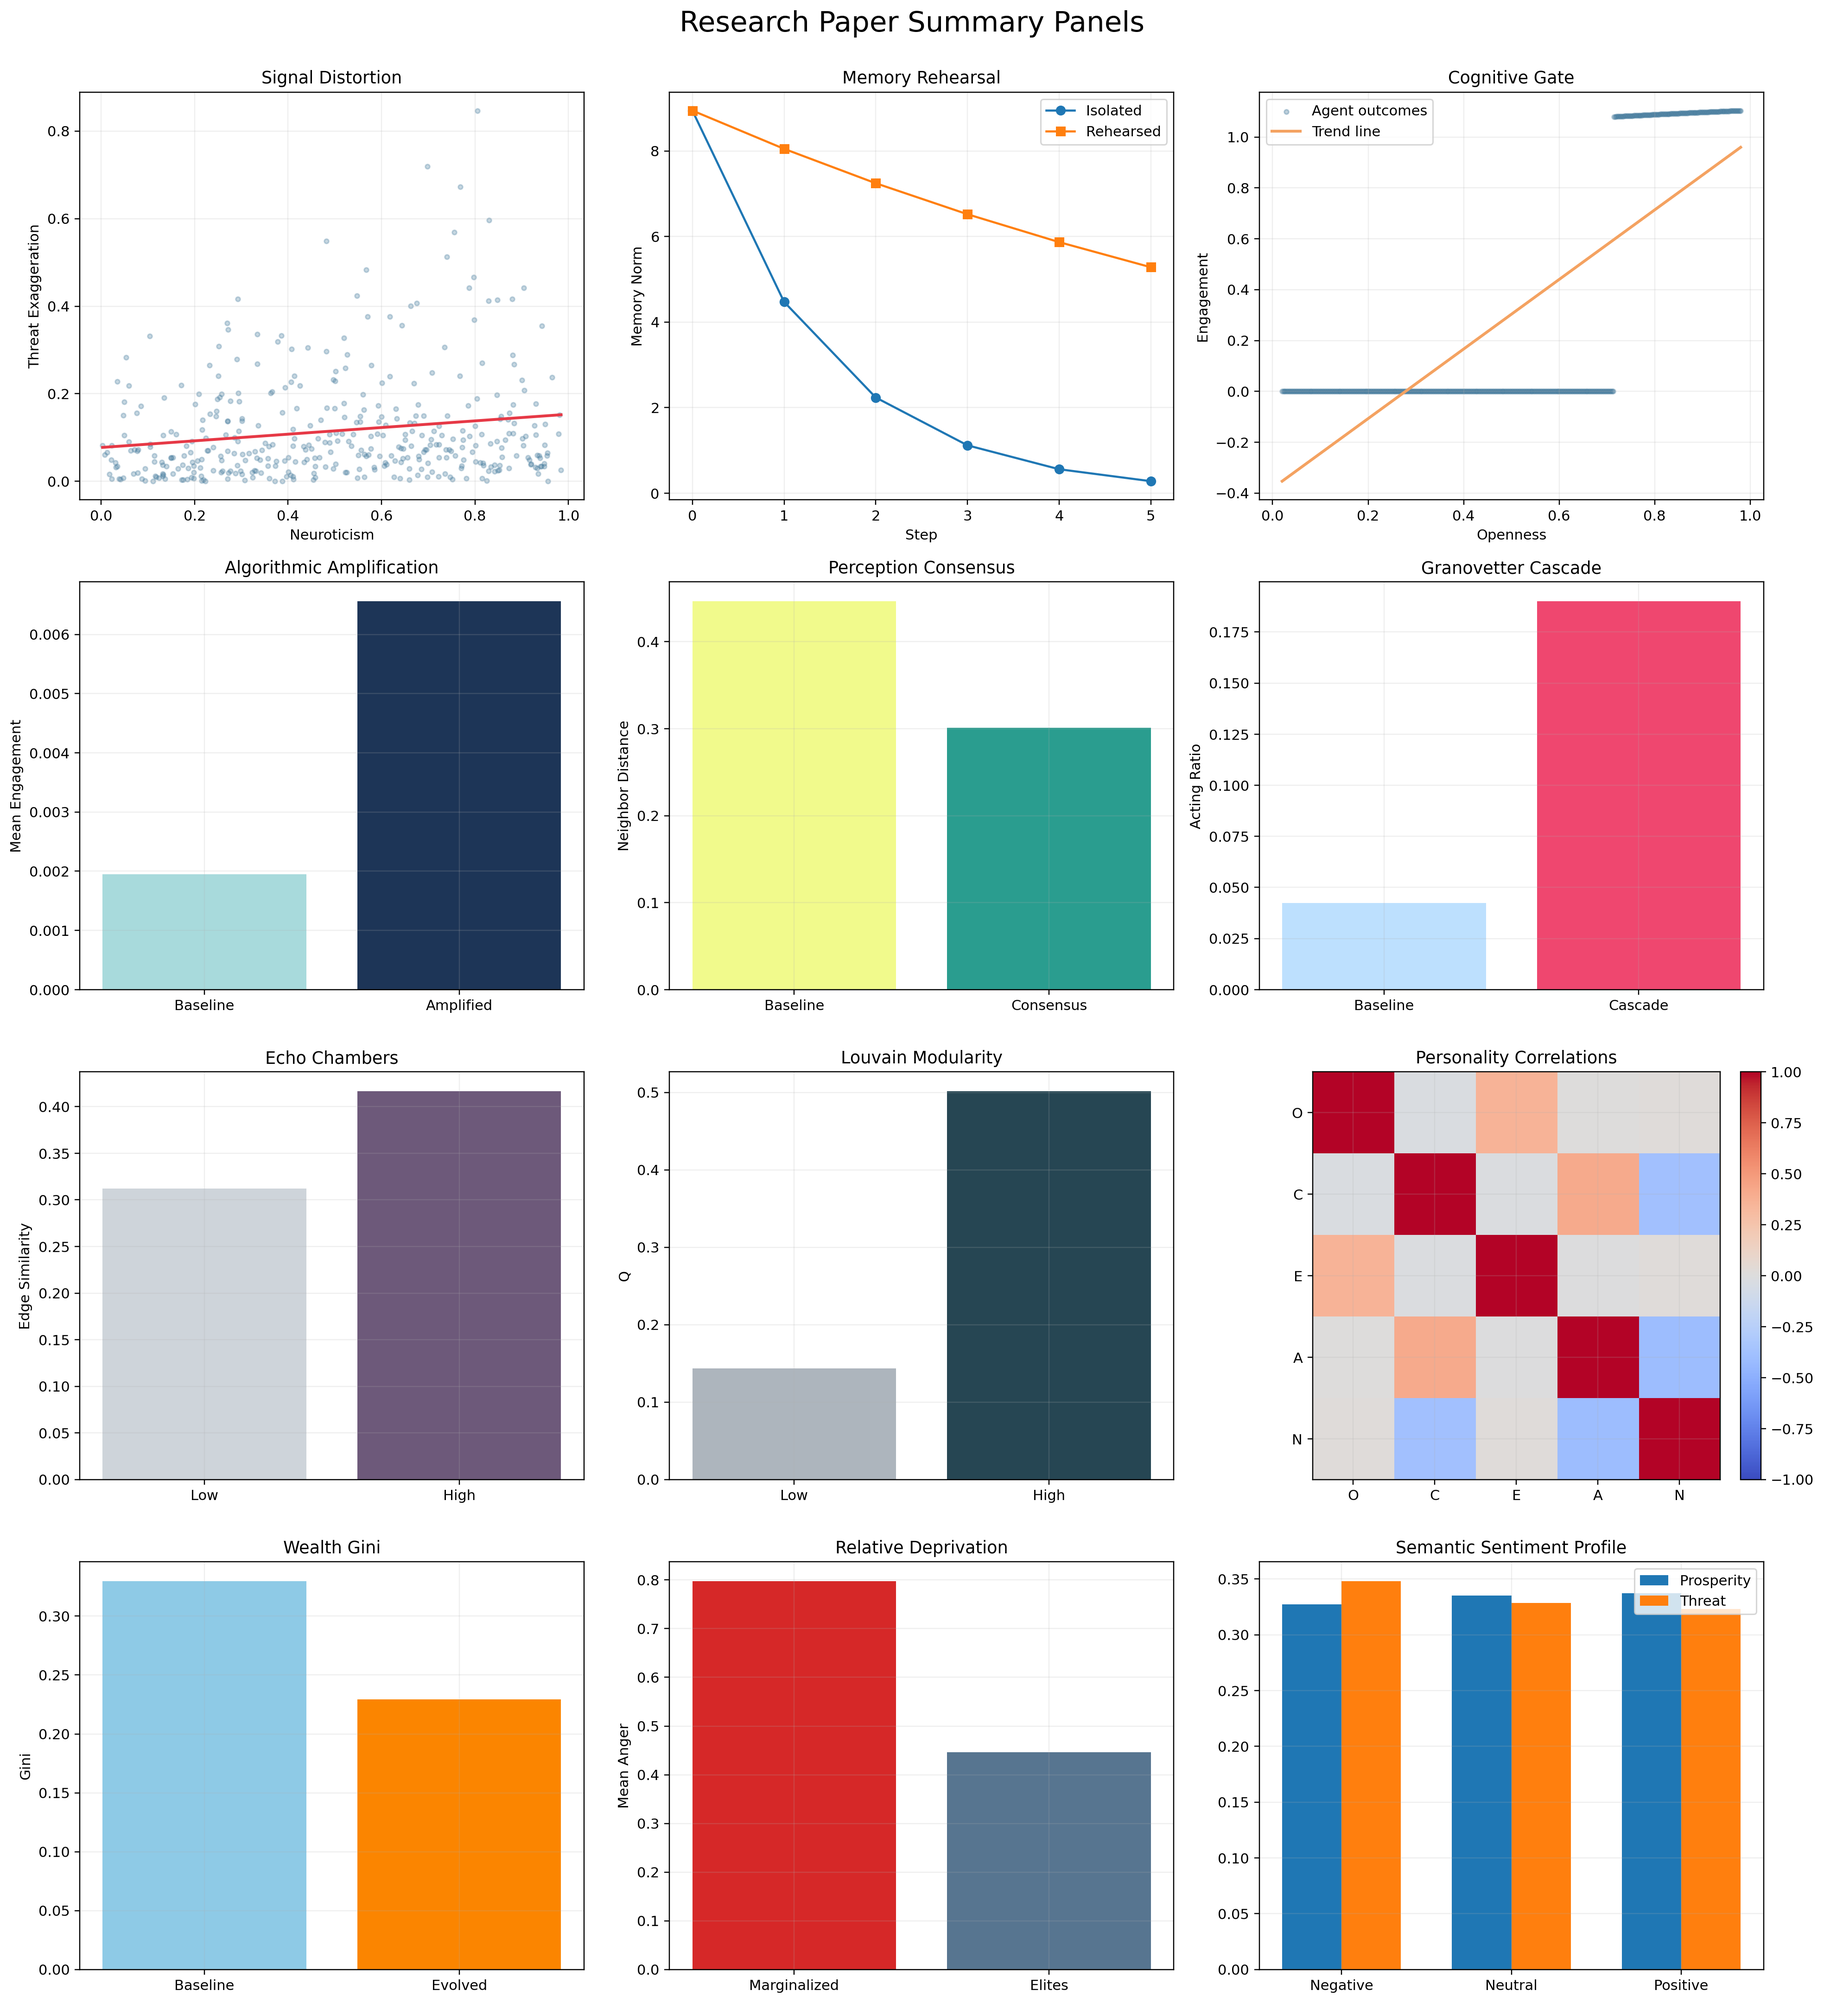
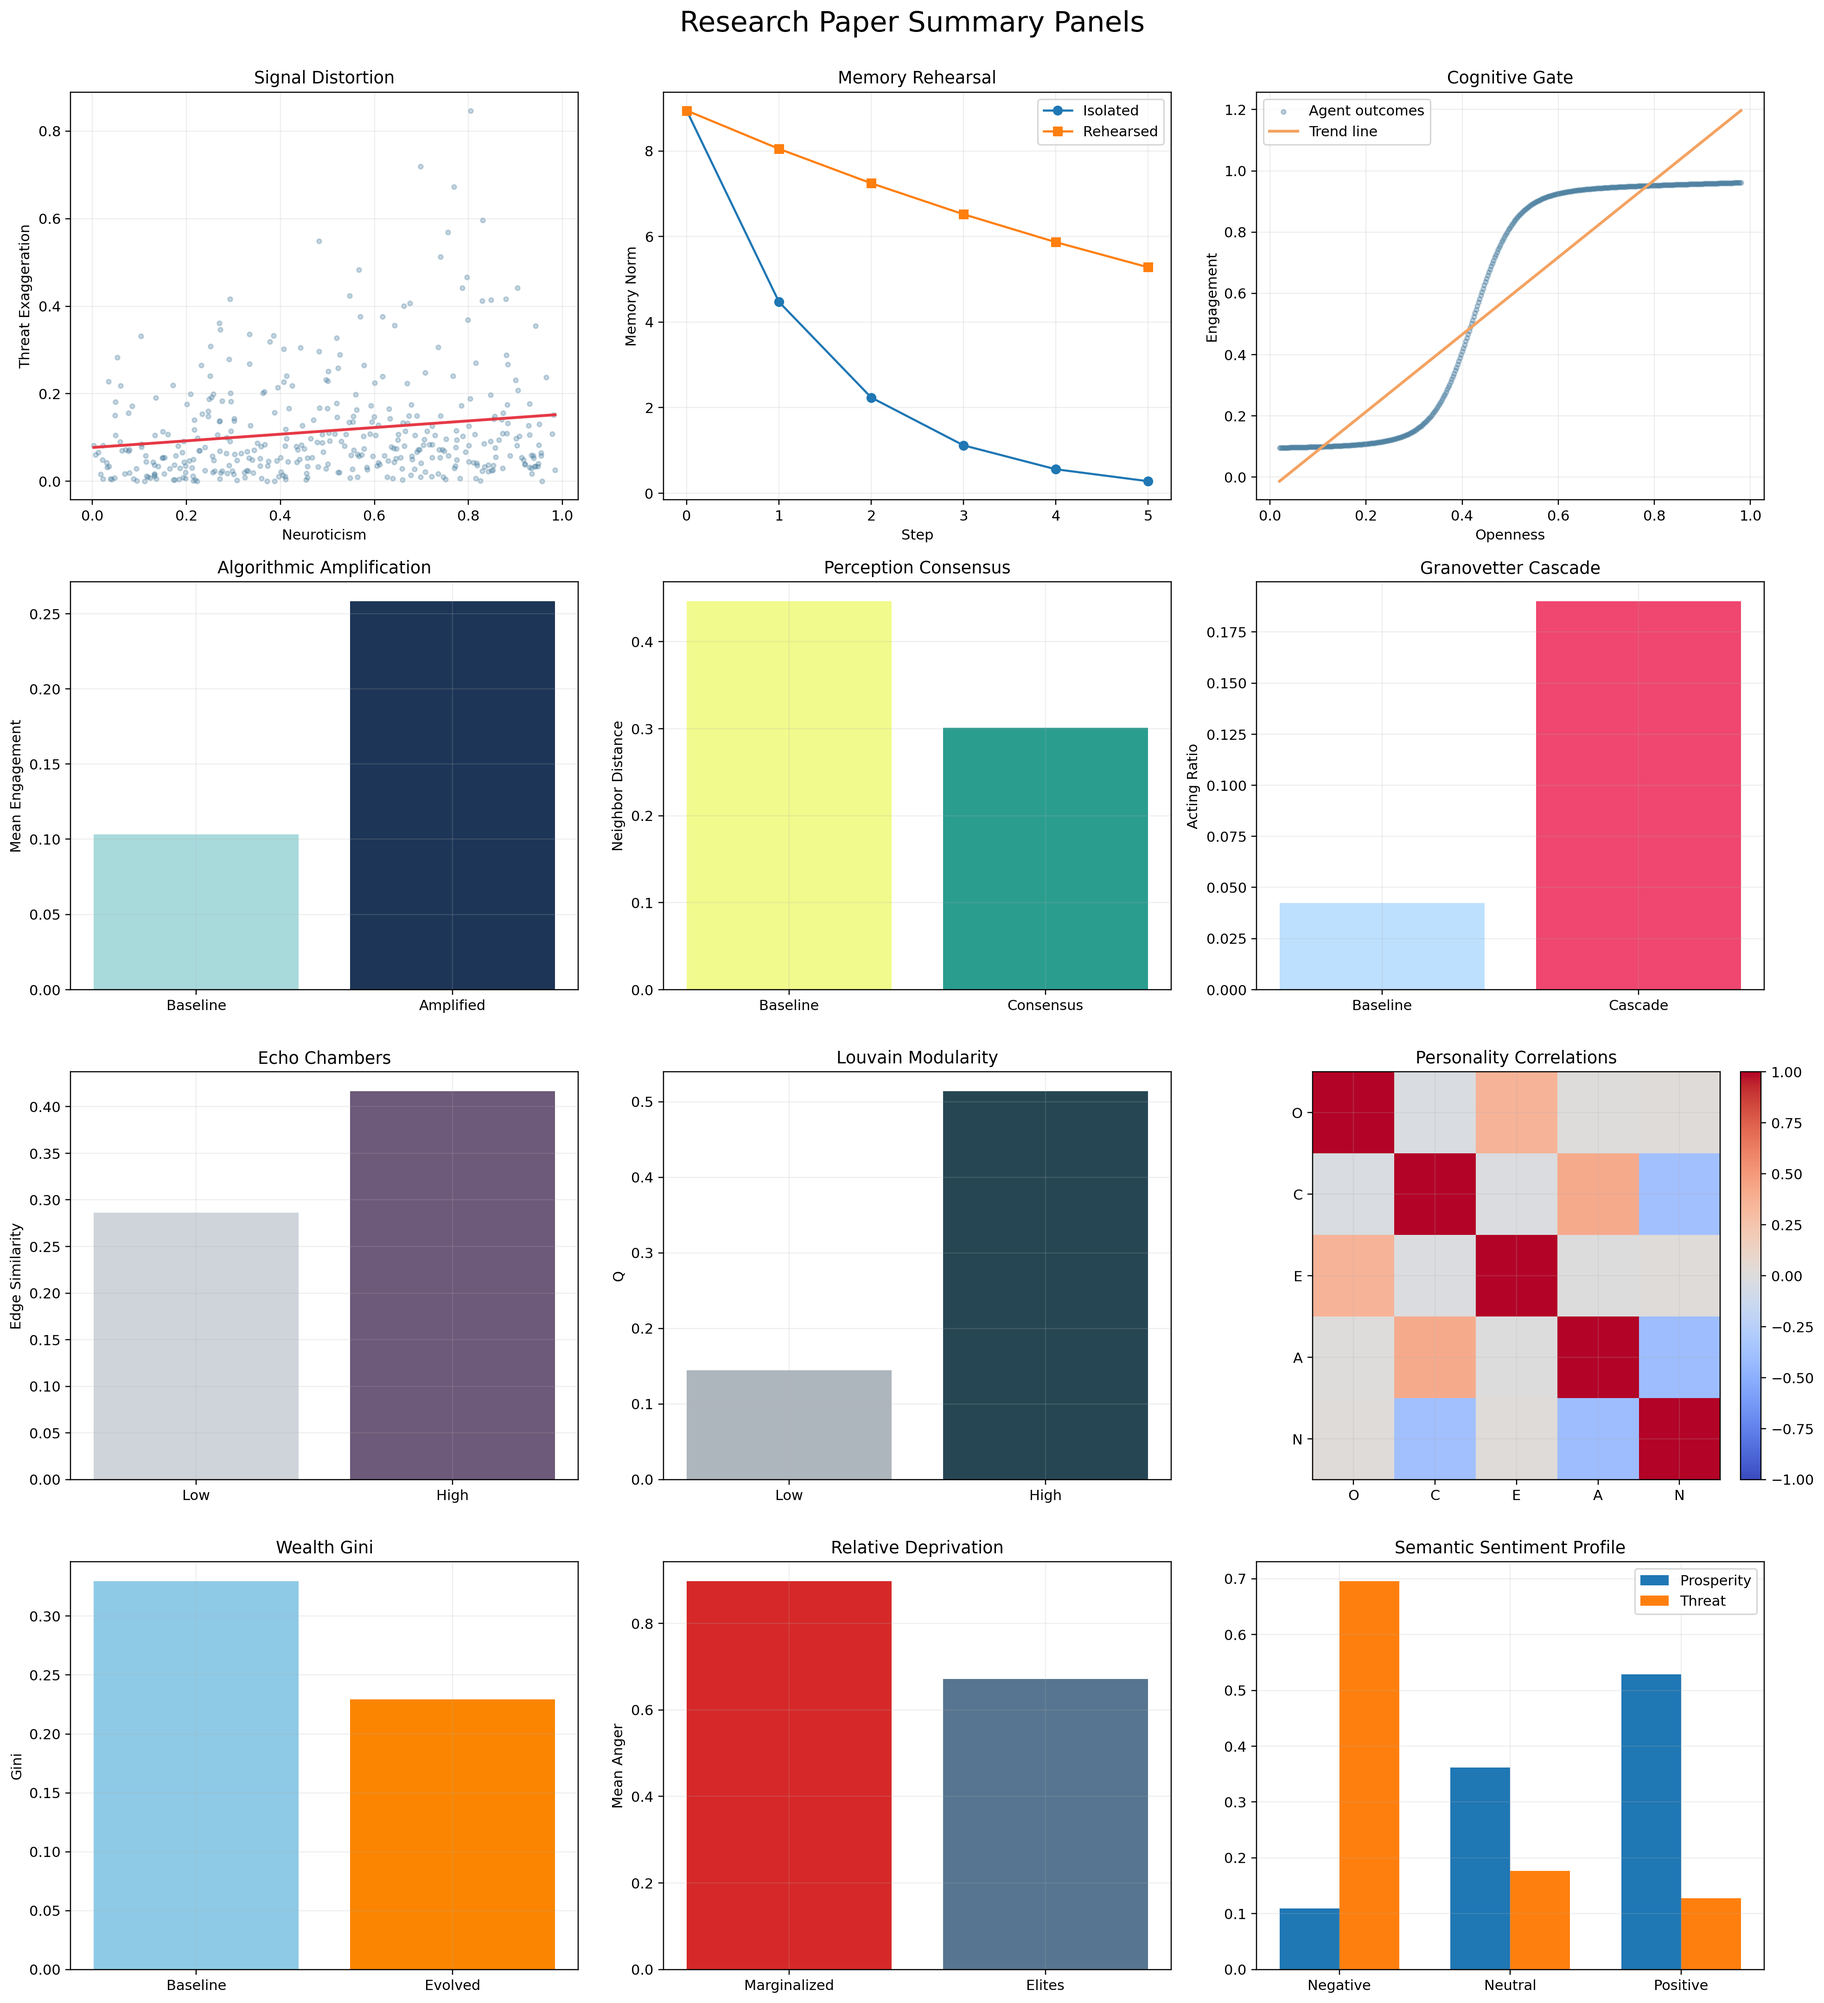
semantic_sentiment_profiling_removed_hardcoded_terms

diff --git a/main.py b/main.py
@@ -115,6 +115,8 @@ class RunProfile(BaseModel):
     cross_dim_interaction_strength: float = 0.3
     threat_sensitivity_gain: float = 1.5
     k_processing_tanh_gain: float = 1.5
+    attention_residual_gain: float = 0.35
+    attention_modulated_gain: float = 1.0
     relevance_importance_weight: float = 0.7
     relevance_base_weight: float = 0.3
     threat_amplifier_gain: float = 1.5
@@ -131,6 +133,8 @@ class RunProfile(BaseModel):
     distortion_max_noise: float = 0.4
     distortion_neurotic_gain: float = 0.6
     perception_social_consensus_gain: float = 0.25  # New 2-Stage Perception
+    affinity_min_strength: float = 0.01
+    normalize_affinities_by_mean: bool = True
 
     # Researcher (Evolution)
     evolution_generations: int = 10
@@ -546,6 +550,8 @@ def prepare_society_sync(run: RunProfile, run_output_dir: str):
         cross_dim_interaction_strength=run.cross_dim_interaction_strength,
         threat_sensitivity_gain=run.threat_sensitivity_gain,
         k_processing_tanh_gain=run.k_processing_tanh_gain,
+        attention_residual_gain=run.attention_residual_gain,
+        attention_modulated_gain=run.attention_modulated_gain,
         relevance_importance_weight=run.relevance_importance_weight,
         relevance_base_weight=run.relevance_base_weight,
         threat_amplifier_gain=run.threat_amplifier_gain,
@@ -558,6 +564,8 @@ def prepare_society_sync(run: RunProfile, run_output_dir: str):
         distortion_max_noise=run.distortion_max_noise,
         distortion_neurotic_gain=run.distortion_neurotic_gain,
         perception_social_consensus_gain=run.perception_social_consensus_gain,
+        affinity_min_strength=run.affinity_min_strength,
+        normalize_affinities_by_mean=run.normalize_affinities_by_mean,
         evolution_generations=run.evolution_generations,
         inheritance_fraction=run.inheritance_fraction,
         shock_frequency=run.shock_frequency,

diff --git a/research_paper_tests/config_schema.py b/research_paper_tests/config_schema.py
@@ -120,6 +120,8 @@ def live_run_profile_defaults() -> dict[str, Any]:
             ],
             "threat_sensitivity_gain": sim_defaults["threat_sensitivity_gain"],
             "k_processing_tanh_gain": sim_defaults["k_processing_tanh_gain"],
+            "attention_residual_gain": sim_defaults["attention_residual_gain"],
+            "attention_modulated_gain": sim_defaults["attention_modulated_gain"],
             "relevance_importance_weight": sim_defaults[
                 "relevance_importance_weight"
             ],
@@ -139,6 +141,10 @@ def live_run_profile_defaults() -> dict[str, Any]:
             "distortion_neurotic_gain": sim_defaults["distortion_neurotic_gain"],
             "perception_social_consensus_gain": sim_defaults[
                 "perception_social_consensus_gain"
+            ],
+            "affinity_min_strength": sim_defaults["affinity_min_strength"],
+            "normalize_affinities_by_mean": sim_defaults[
+                "normalize_affinities_by_mean"
             ],
             "evolution_generations": sim_defaults["evolution_generations"],
             "inheritance_fraction": sim_defaults["inheritance_fraction"],

diff --git a/generate_society.py b/generate_society.py
@@ -423,9 +423,19 @@ def generate_society(config: SimConfig):
     non_wealth_mask[wealth_idx] = False
     exposures[:, non_wealth_mask] = torch.tanh(exposures[:, non_wealth_mask])
     
-    cognitive_bandwidth = torch.clamp(torch.randn(config.num_agents, 1) * 0.2 + 0.55, min=0.1, max=1.0)
-    positive_affinities = torch.clamp(torch.abs(raw_affinities), min=0.01)
-    normalized_affinities = positive_affinities / positive_affinities.sum(dim=1, keepdim=True)
+    cognitive_bandwidth = torch.clamp(
+        torch.randn(config.num_agents, 1) * 0.2 + 0.55, min=0.1, max=1.0
+    )
+    positive_affinities = torch.clamp(
+        torch.abs(raw_affinities), min=config.affinity_min_strength
+    )
+    if getattr(config, "normalize_affinities_by_mean", True):
+        mean_affinity = positive_affinities.mean(dim=1, keepdim=True)
+        normalized_affinities = positive_affinities / torch.clamp(
+            mean_affinity, min=1e-6
+        )
+    else:
+        normalized_affinities = positive_affinities
     affinities = normalized_affinities * cognitive_bandwidth
 
     df_metadata = pd.DataFrame({

diff --git a/schema.py b/schema.py
@@ -127,6 +127,8 @@ class SimConfig:
     distortion_beta_b: float = 5.0
     distortion_neurotic_gain: float = 0.6
     distortion_min_alpha: float = 0.01
+    affinity_min_strength: float = 0.01
+    normalize_affinities_by_mean: bool = True
 
     use_engagement_gate: bool = True
     engagement_threshold: float = (
@@ -157,6 +159,8 @@ class SimConfig:
     cross_dim_interaction_strength: float = 0.3
     threat_sensitivity_gain: float = 1.5
     k_processing_tanh_gain: float = 1.5
+    attention_residual_gain: float = 0.35
+    attention_modulated_gain: float = 1.0
 
     relevance_importance_weight: float = 0.7
     relevance_base_weight: float = 0.3

diff --git a/cognitive_engine.py b/cognitive_engine.py
@@ -290,7 +290,10 @@ class CognitiveEngine:
         # ---------------------------------
         # 6. Context Construction
         # ---------------------------------
-        context_vector = perceived_world * attention_weights
+        residual_gain = getattr(self.config, "attention_residual_gain", 0.35)
+        modulated_gain = getattr(self.config, "attention_modulated_gain", 1.0)
+        context_scale = residual_gain + (attention_weights * modulated_gain)
+        context_vector = perceived_world * context_scale
         context_vector = torch.clamp(context_vector, -2.0, 2.0)
 
         return context_vector, attention_weights, engagement_scores
